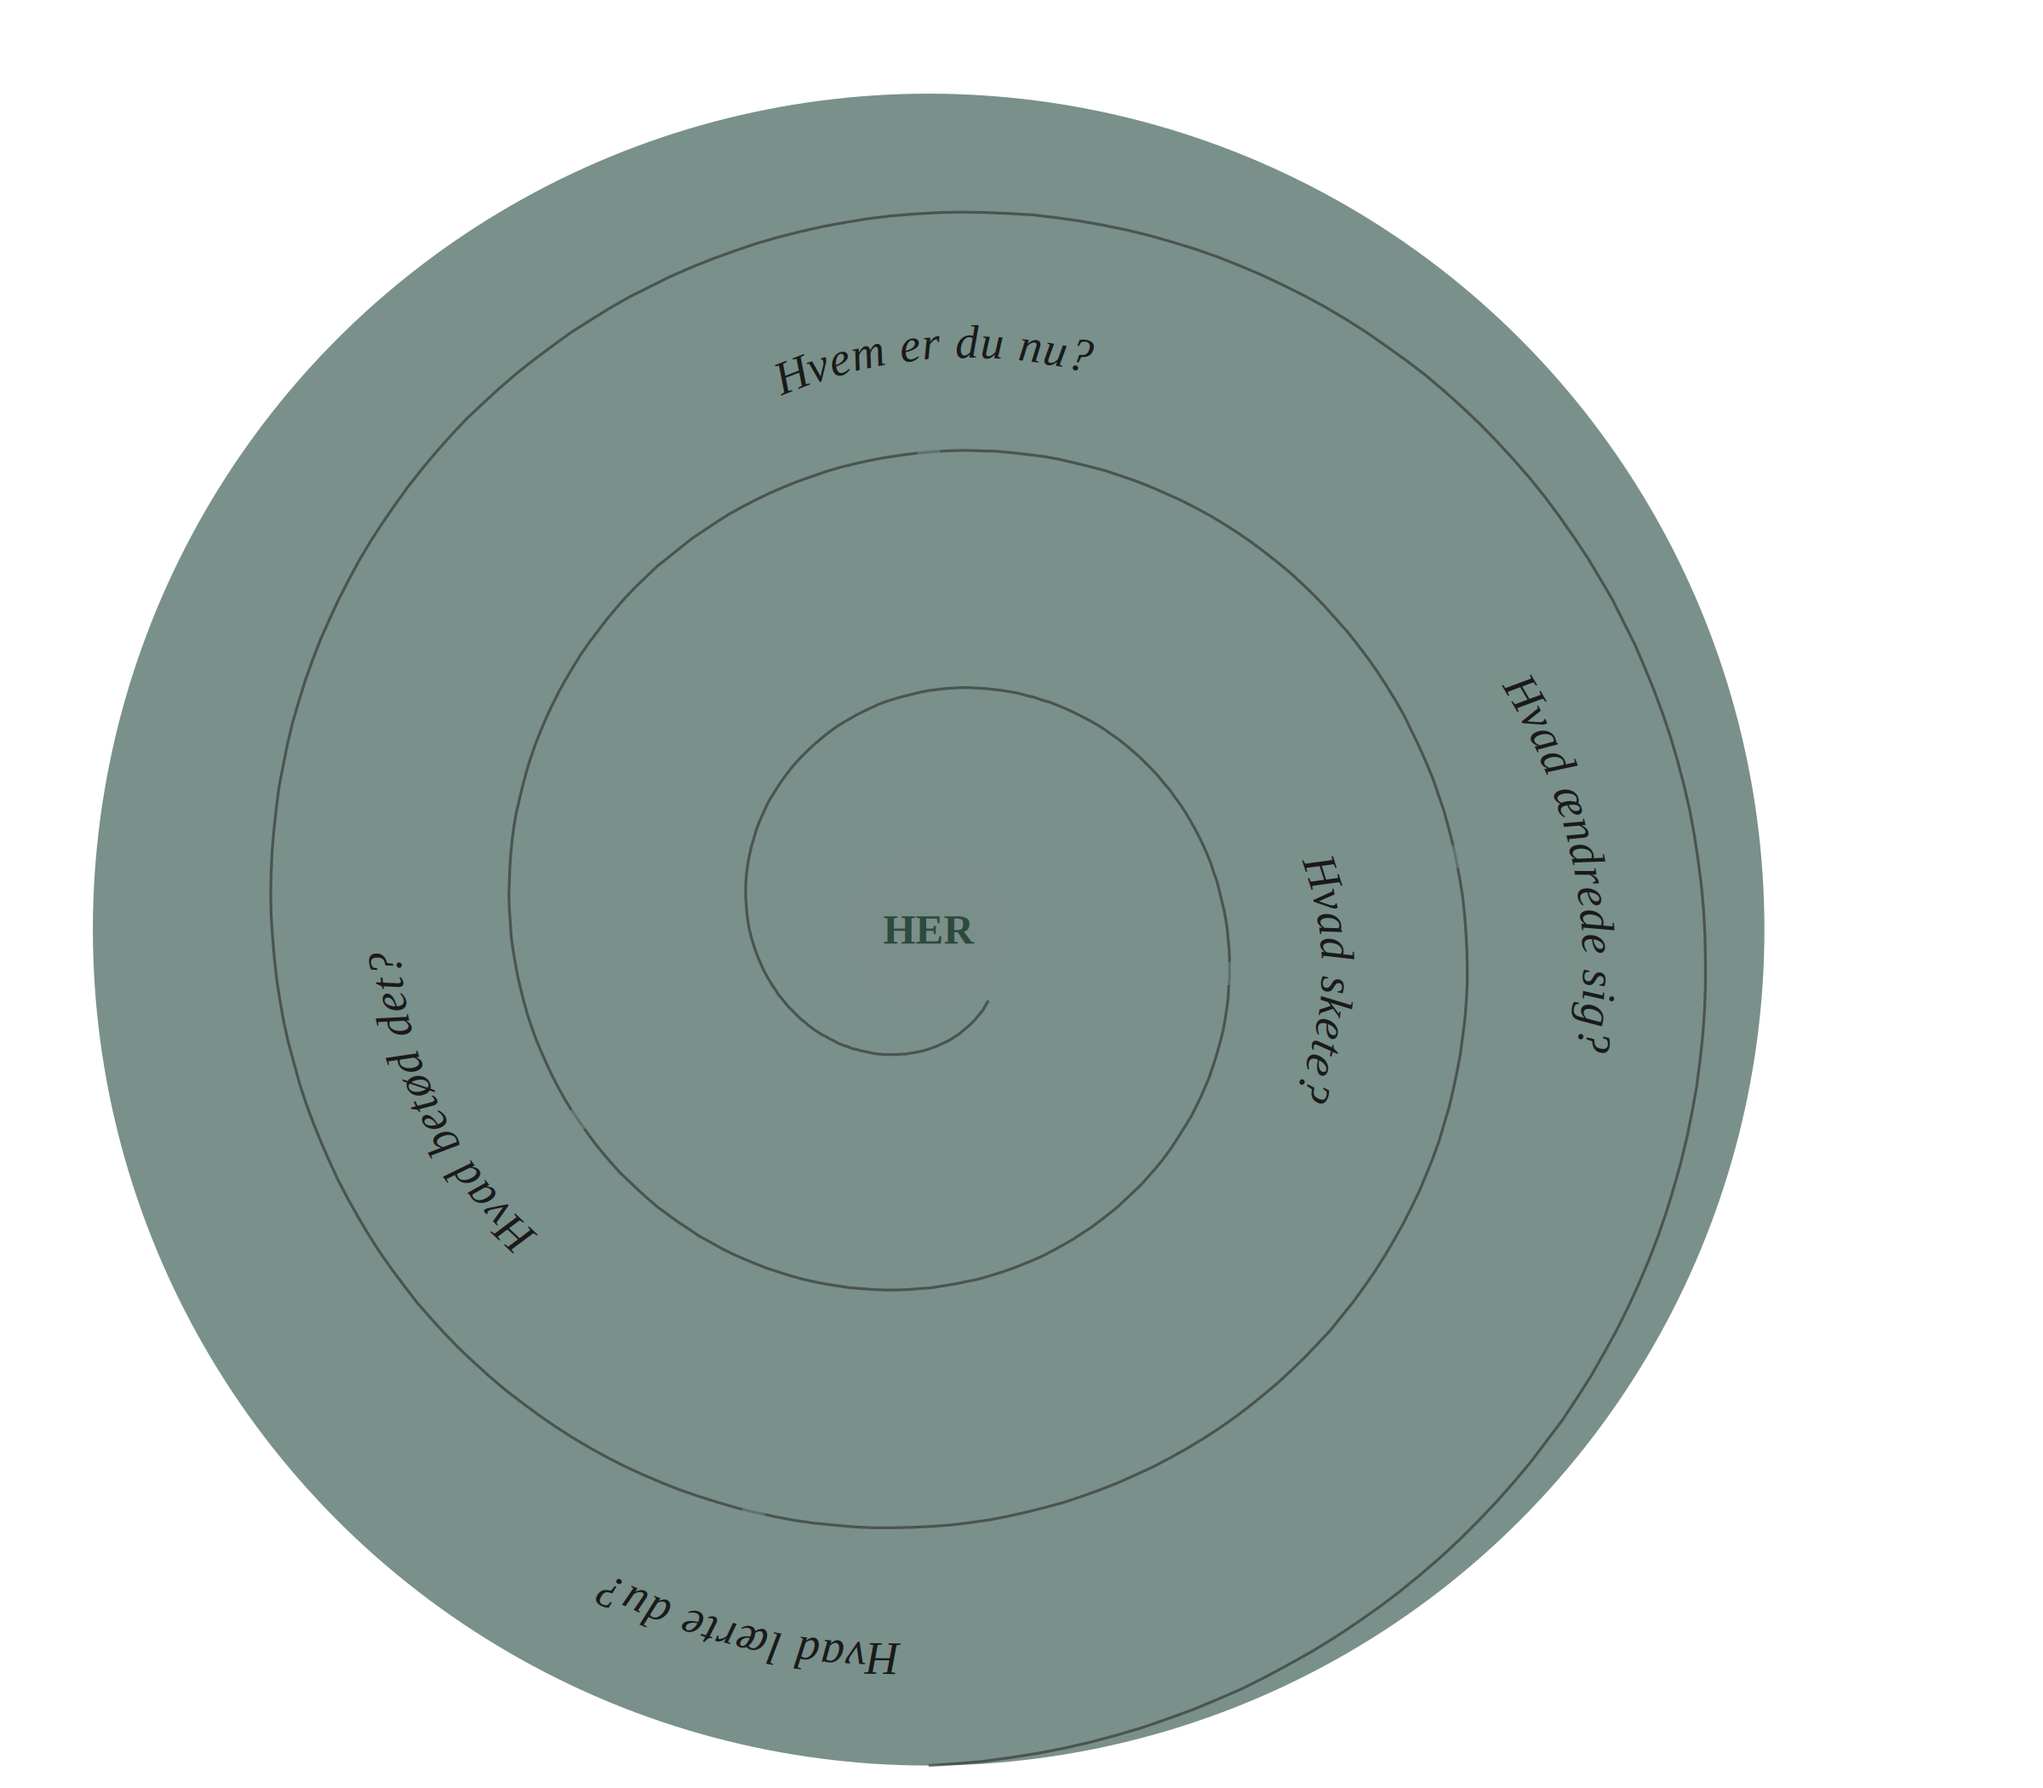
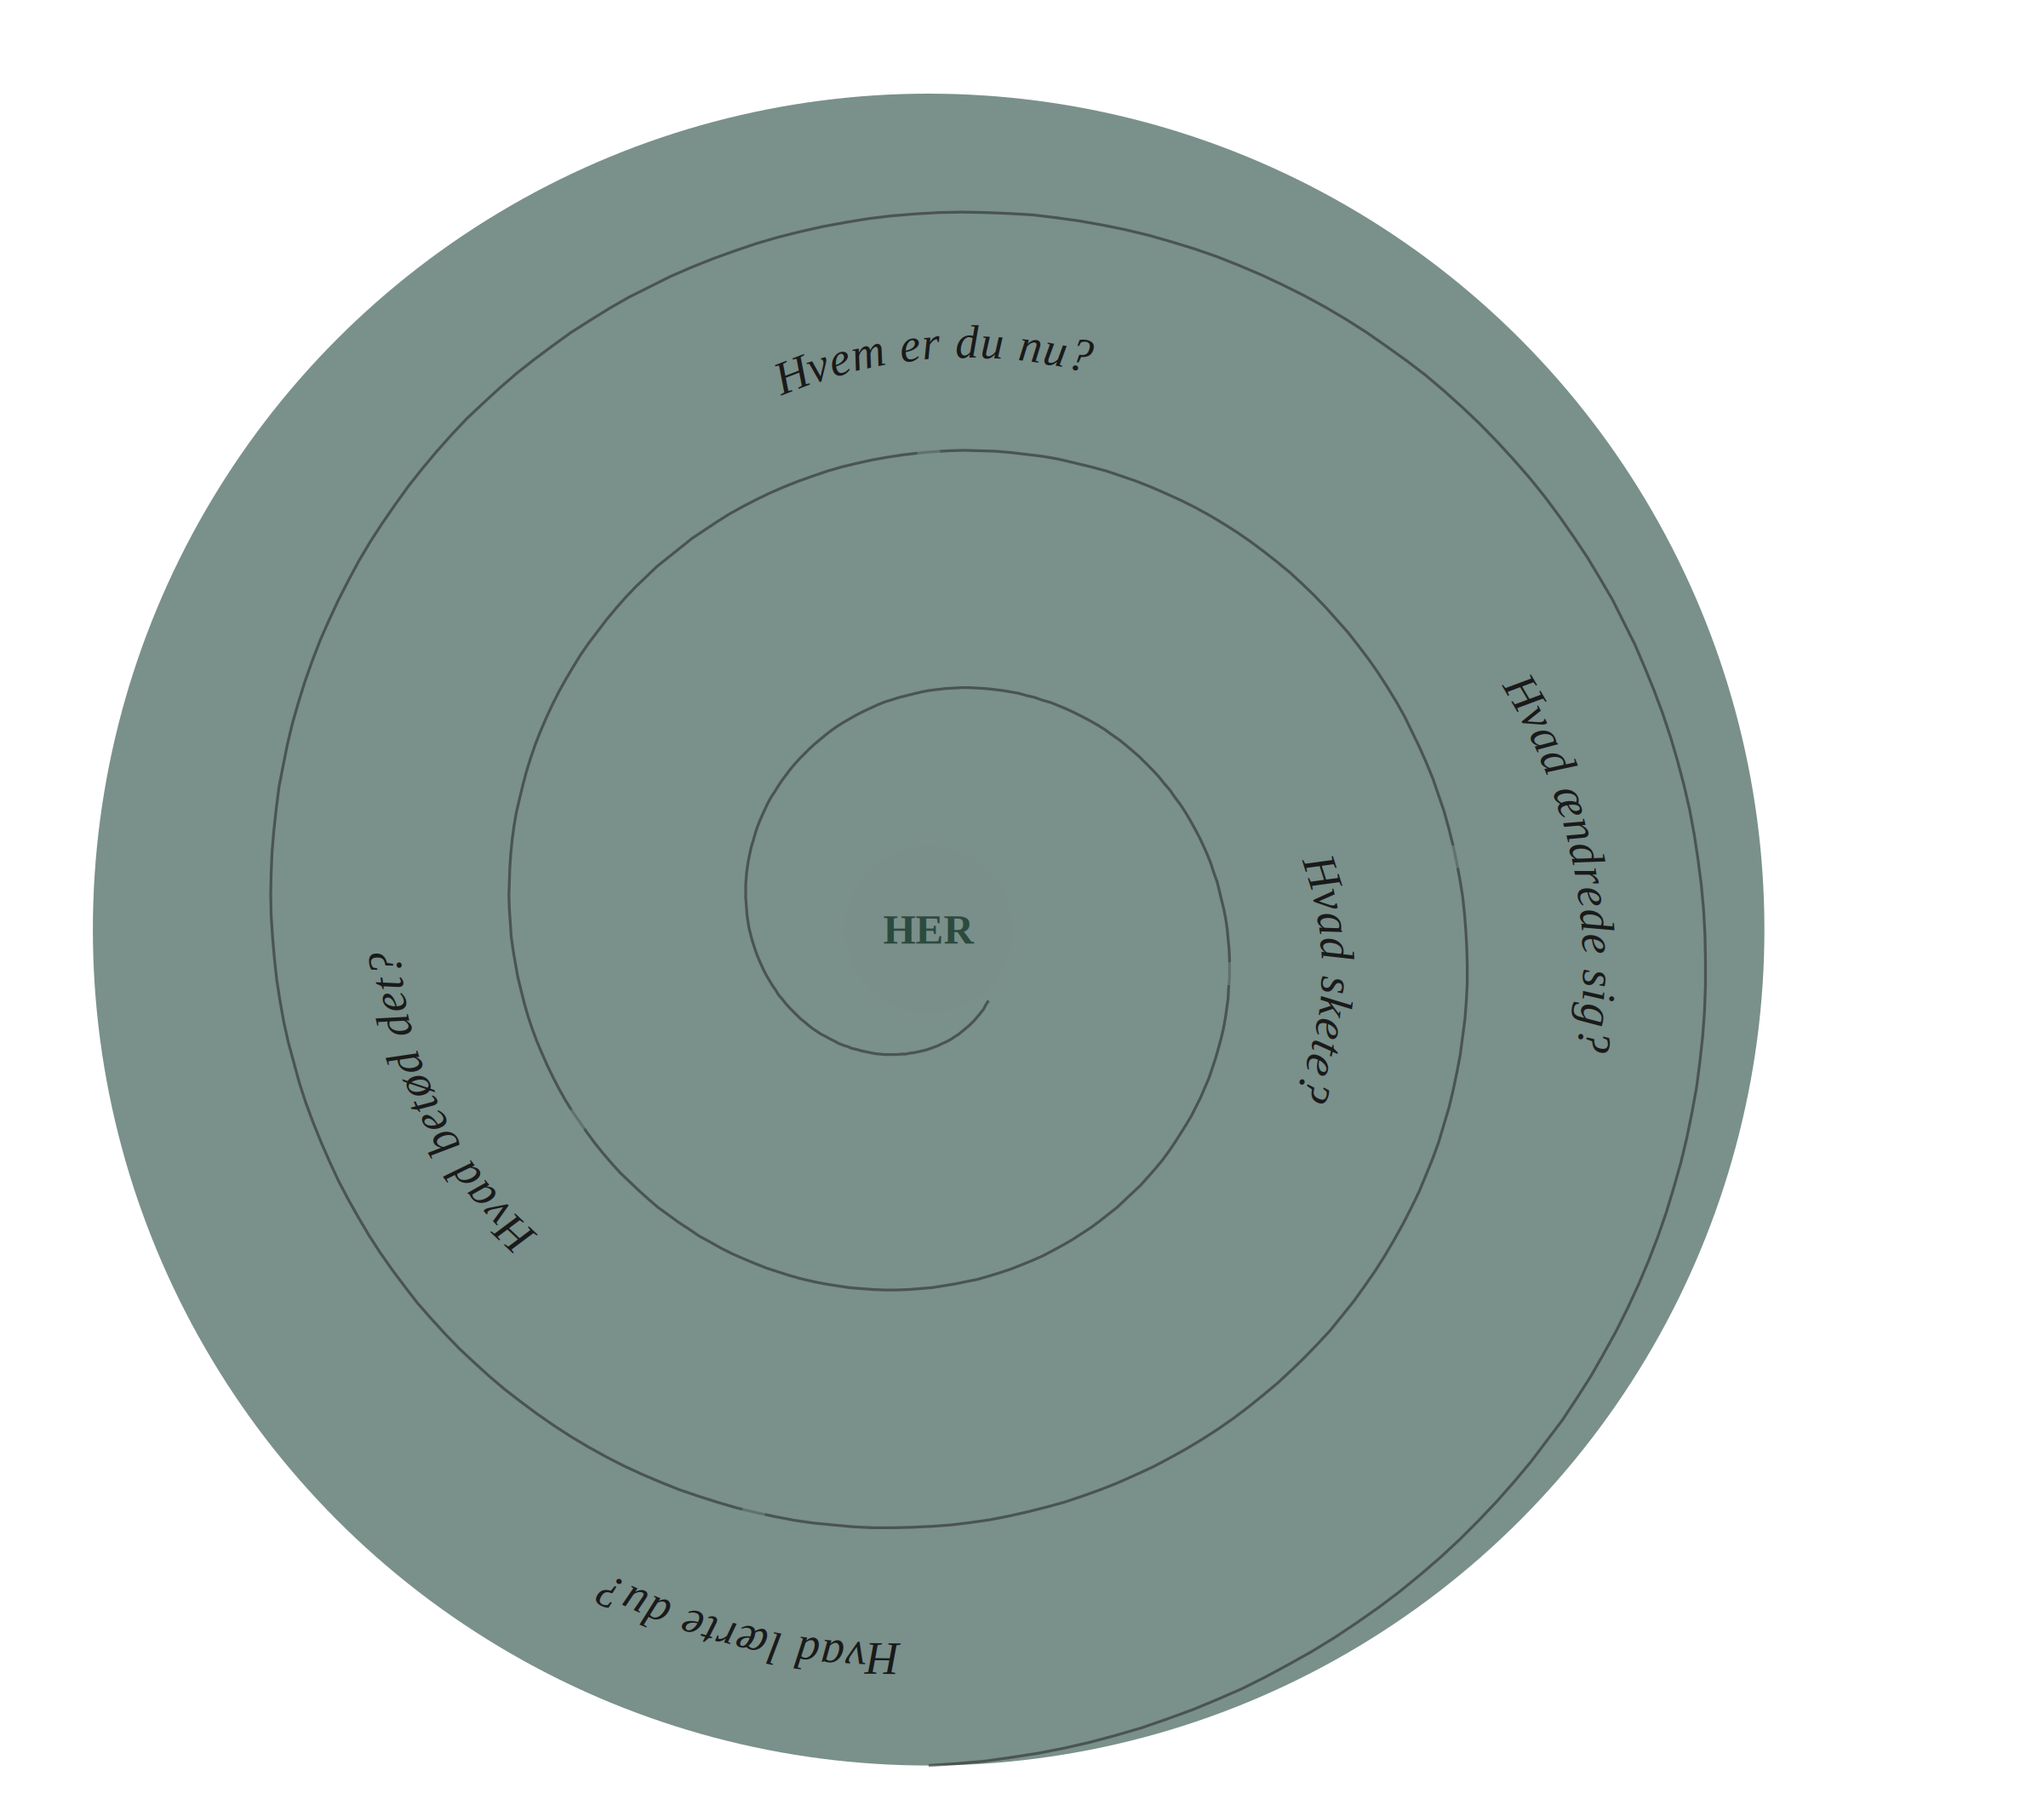
Erstat refleksion spørgsmålsspiral med beskåret PNG
Nyt billede fra brugerens mappe, beskåret til cirkel-indhold
(caption-tekst fjernet da den allerede er i HTML). SW v40→v41.

diff --git a/sw.js b/sw.js
@@ -1,4 +1,4 @@
-const CACHE_NAME = 'livsfaser-v40';
+const CACHE_NAME = 'livsfaser-v41';
 const urlsToCache = [
   './',
   './index.html',
